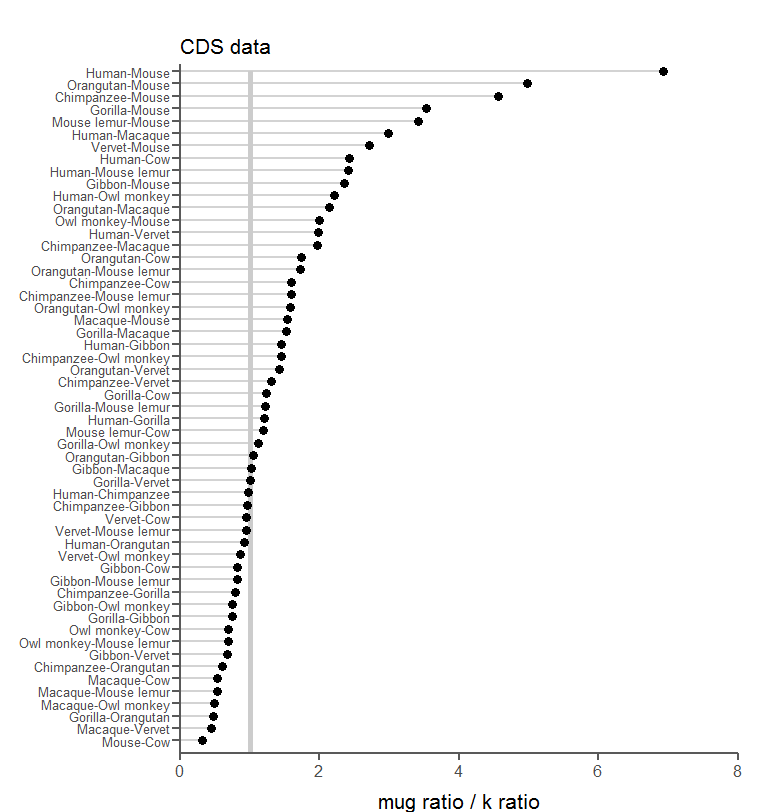
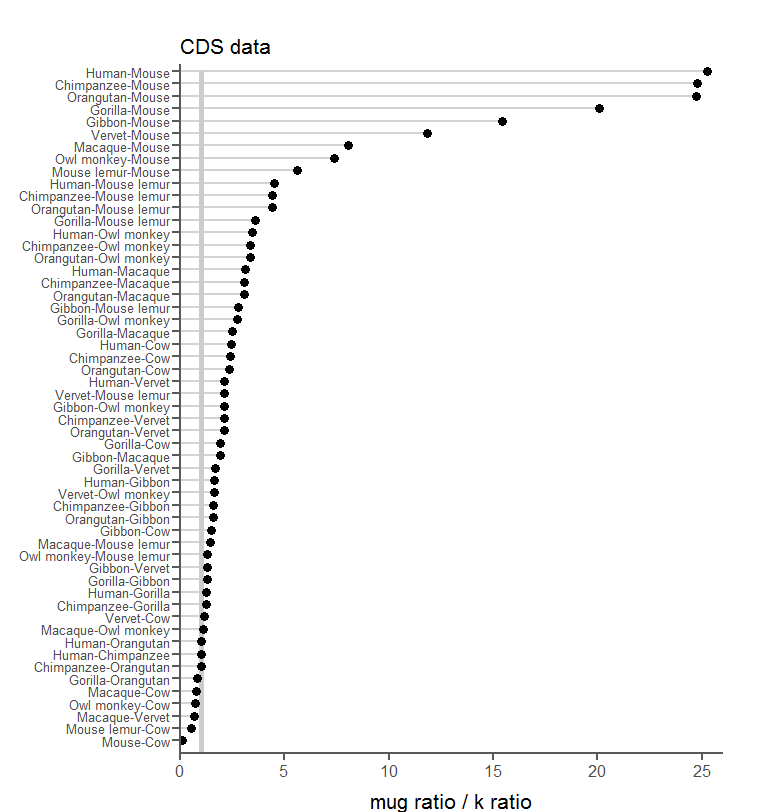
added subrates updates folder

diff --git a/subrates/050119.html b/subrates/050119.html
@@ -13,8 +13,8 @@
     <h3>Progress</h3>
 
     <p>I have made a species tree from both amino acid and nucleotide coding sequences (CDS) for the 12 mammal species in the analysis:</p>
-    <img src="img/cds-spec-tree.png">
-    <p><b>Figure 1: Species tree made from ~8000 CDS sequences.</b></p>
+    <center><img src="img/cds-spec-tree.png">
+    <p><b>Figure 1: Species tree made from ~8000 CDS sequences.</b></p></center>
 
     <p>I will focus on results for the CDS data only. <b>Note:</b>I could not proceed with the UCSC tree because I couldn't locate the alignments they used to estimate branch lengths. I
     can pursue this more if it is worthwhile.</p>
@@ -25,6 +25,7 @@
 
     <p>This resulted in the following data:</p>
 
+    <center>
     <table class="table table-bordered table-hover table-condensed">
             <thead><tr><th title="Field #1">Species</th>
             <th title="Field #2">Source</th>
@@ -37,92 +38,92 @@
             <td>Human</td>
             <td>Avg. 10 studies</td>
             <td align="right">1.32E-08</td>
-            <td align="right">0.00293</td>
-            <td align="right">6270000</td>
-            <td align="right">4.67E-10</td>
+            <td align="right">0.0026</td>
+            <td align="right">8210000</td>
+            <td align="right">3.17E-10</td>
             </tr>
             <tr>
             <td>Chimpanzee</td>
             <td>Avg. 3 studies</td>
             <td align="right">1.32E-08</td>
-            <td align="right">0.00305</td>
-            <td align="right">6270000</td>
-            <td align="right">4.86E-10</td>
+            <td align="right">0.00265</td>
+            <td align="right">8210000</td>
+            <td align="right">3.23E-10</td>
             </tr>
             <tr>
             <td>Gorilla</td>
             <td>Besenbacher 2019</td>
             <td align="right">1.13E-08</td>
-            <td align="right">0.0041</td>
-            <td align="right">8030000</td>
-            <td align="right">5.11E-10</td>
+            <td align="right">0.00356</td>
+            <td align="right">10450000</td>
+            <td align="right">3.41E-10</td>
             </tr>
             <tr>
             <td>Orangutan</td>
             <td>Besenbacher 2019</td>
             <td align="right">1.66E-08</td>
-            <td align="right">0.00871</td>
-            <td align="right">15150000</td>
-            <td align="right">5.75E-10</td>
+            <td align="right">0.0077</td>
+            <td align="right">18930000</td>
+            <td align="right">4.07E-10</td>
             </tr>
             <tr>
             <td>Gibbon</td>
             <td>Krishna&#39;s data</td>
             <td align="right">1.09E-08</td>
-            <td align="right">0.01063</td>
-            <td align="right">17780000</td>
-            <td align="right">5.98E-10</td>
+            <td align="right">0.00924</td>
+            <td align="right">21610000</td>
+            <td align="right">4.28E-10</td>
             </tr>
             <tr>
             <td>Macaque</td>
             <td>Wang in prep</td>
             <td align="right">5.42E-09</td>
-            <td align="right">0.00505</td>
-            <td align="right">8290000</td>
-            <td align="right">6.09E-10</td>
+            <td align="right">0.00433</td>
+            <td align="right">10630000</td>
+            <td align="right">4.07E-10</td>
             </tr>
             <tr>
             <td>Vervet</td>
             <td>Pfeiffer 2017</td>
             <td align="right">8.80E-09</td>
-            <td align="right">0.00546</td>
-            <td align="right">8290000</td>
-            <td align="right">6.59E-10</td>
+            <td align="right">0.00478</td>
+            <td align="right">10630000</td>
+            <td align="right">4.50E-10</td>
             </tr>
             <tr>
             <td>Owl monkey</td>
             <td>Thomas 2018</td>
             <td align="right">8.14E-09</td>
-            <td align="right">0.02847</td>
-            <td align="right">42080000</td>
-            <td align="right">6.77E-10</td>
+            <td align="right">0.02514</td>
+            <td align="right">37530000</td>
+            <td align="right">6.70E-10</td>
             </tr>
             <tr>
             <td>Mouse lemur</td>
             <td>Campbell 2017 (talk)</td>
             <td align="right">8.80E-09</td>
-            <td align="right">0.05776</td>
-            <td align="right">72260000</td>
-            <td align="right">7.99E-10</td>
+            <td align="right">0.05219</td>
+            <td align="right">54750000</td>
+            <td align="right">9.53E-10</td>
             </tr>
             <tr>
             <td>Mouse</td>
             <td>Lindsay 2016 (preprint)</td>
             <td align="right">3.90E-09</td>
-            <td align="right">0.15395</td>
-            <td align="right">151250000</td>
-            <td align="right">1.02E-09</td>
+            <td align="right">0.15511</td>
+            <td align="right">65650000</td>
+            <td align="right">2.36E-09</td>
             </tr>
             <tr>
             <td>Cow</td>
             <td>Harland 2017 (preprint)</td>
             <td align="right">1.17E-08</td>
-            <td align="right">0.10046</td>
-            <td align="right">94250000</td>
-            <td align="right">1.07E-09</td>
+            <td align="right">0.08434</td>
+            <td align="right">124010000</td>
+            <td align="right">6.80E-10</td>
             </tr>
             </tbody></table>
-
+        </center>
 
     <h3>Ideas for comparing mutation and substitution rates</h3>
 
@@ -134,18 +135,22 @@
 
     <p>It is clear that these ratios are not 1 for many species:</p>
 
+    <center>
     <img src="img/ratio-ratios.png">
-    <p><b>Figure 2: For every species pair, the ratio of mutation rate divided by the ratio of substitution rate.</b></p>
+    <p><b>Figure 2</b>: For every species pair, the ratio of mutation rate divided by the ratio of substitution rate.</p>
+    </center>
 
     <p>For example, to get the point for human-mouse in <b>Figure 2</b>, I took the ratio of the mutation rates for each species in the data table above and divided it by the ratio of substitution rates:</p>
 
-    <p>(1.32E-08 / 3.90E-09) / (4.67E-10 / 1.02E-09) = 7.39</p>
+    <p>(1.32E-08 / 3.90E-09) / (3.17E-10 / 2.36E-09) = 25.25</p>
 
-    <p>7.39 is the number plotted and this was repeated for every species pair.</p>
+    <p>25.25 is the number plotted and this was repeated for every species pair.</p>
 
     </br>
+    <center>
     <img src="img/ratio-reg.png">
-    <p><b>Figure 3: For every species pair, the mutation rate ratio vs. the substitution rate ratio.</b></p>
+    <p><b>Figure 3</b>: For every species pair, the mutation rate ratio vs. the substitution rate ratio.</p>
+    </center>
 
     <h3>Considerations</h3>
     <ul>
